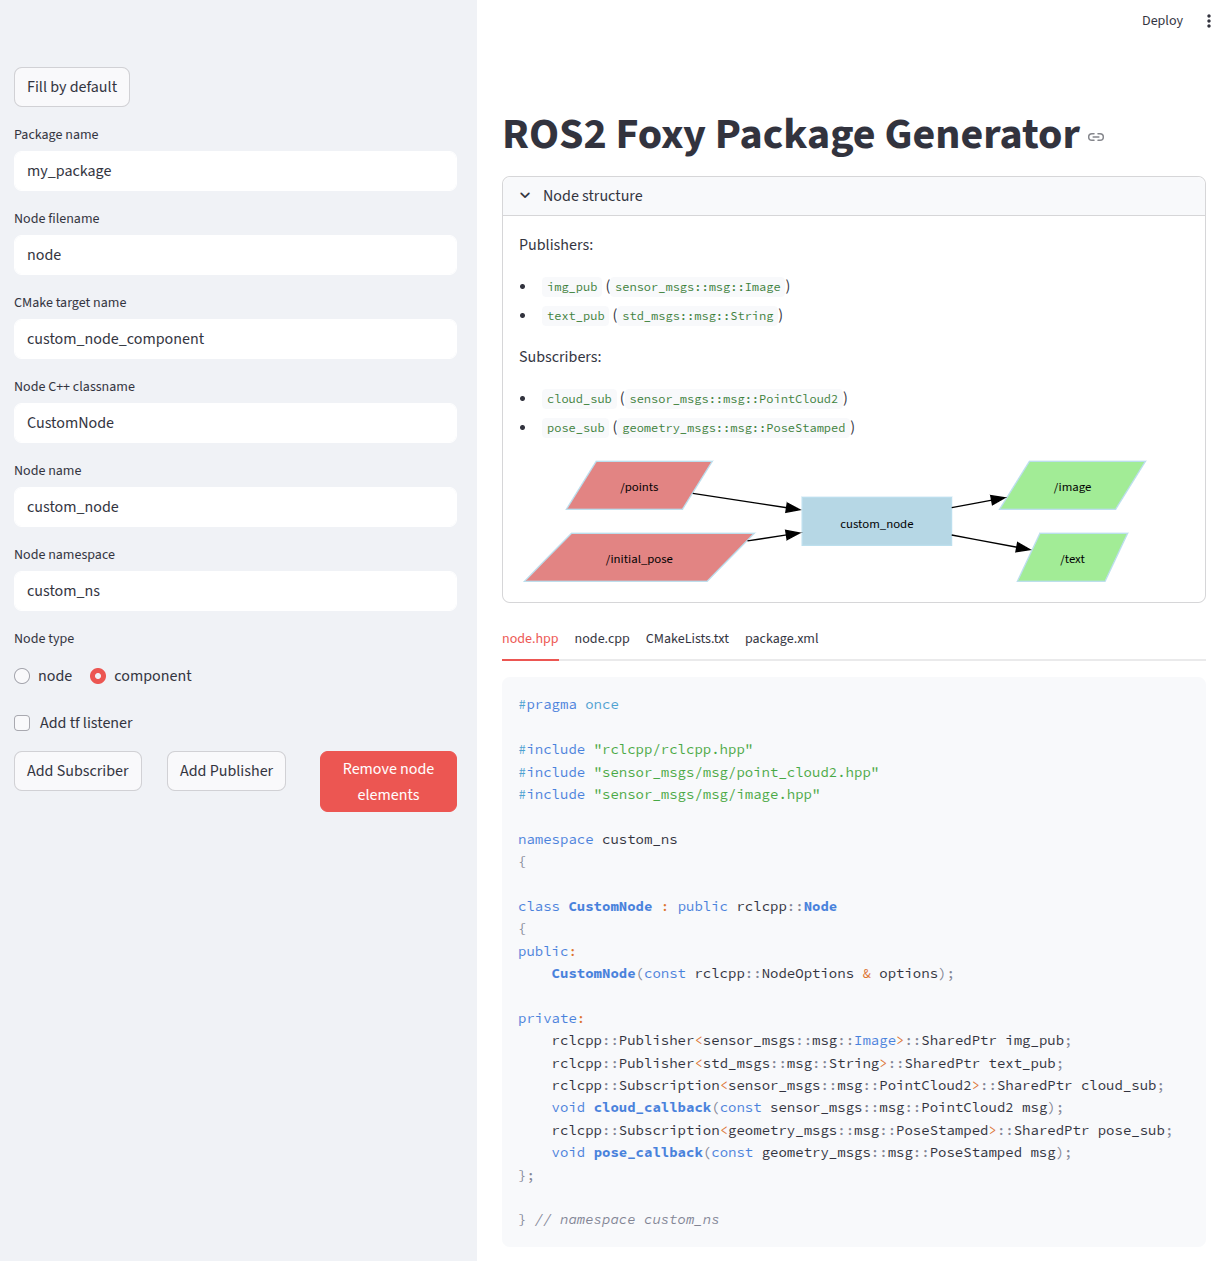
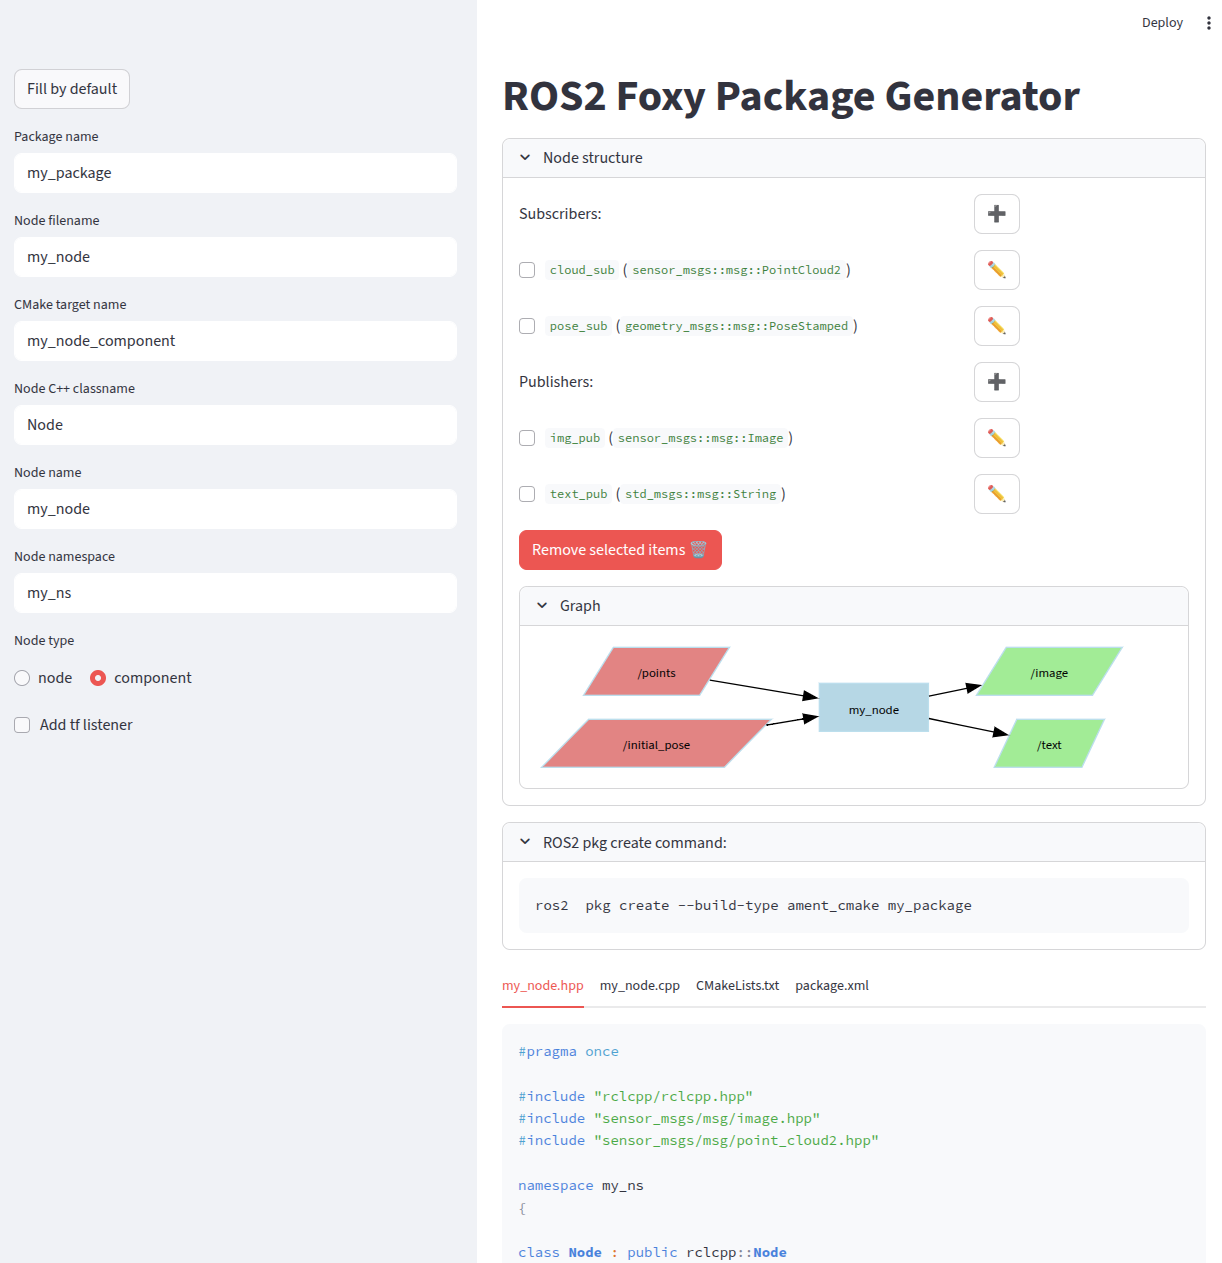
feat: Add ability to edit subs and pubs

diff --git a/ros2_node_generator.py b/ros2_node_generator.py
@@ -107,19 +107,30 @@ def add_msg_include(msg_type: str):
     st.session_state["node_info"]["includes"].add(msg_include)
     st.session_state["node_info"]["include_pkgs"].add(msg_pkg)
 
-def add_qos():
+def refresh_includes():
+    st.session_state["node_info"]['include_pkgs'] = set()
+    st.session_state["node_info"]['includes'] = set()       
+    for p in st.session_state["node_info"]["publishers"]:
+        add_msg_include(p["msg_type"])
+    for s in st.session_state["node_info"]["subscribers"]:
+        add_msg_include(s["msg_type"])
+
+def add_qos(prior_qos = {}):
     default_qos = {"history": "Keep last", "queue_size": None, "reliability": "Reliable", "durability": "Volatile"}
     qos = {}
-    st.text("QoS will be here")
-    qos["history"] = st.radio("History", ["Keep last", "Keep all"], horizontal=True)
+    history_opts = ["Keep last", "Keep all"]
+    qos["history"] = st.radio("History", history_opts, index= 0 if prior_qos == {} or "history" not in prior_qos.keys() else [i for i, h in enumerate(history_opts) if h == prior_qos["history"]][0], horizontal=True)
     qos["is_keep_all"] = qos["history"] == "Keep all"
     qos["queue_size"] = 1
     if not qos["is_keep_all"]:
-        qos["queue_size"] = st.number_input("Queue size", min_value=1, step=1)
-    qos["reliability"] = st.radio("Reliability", ["Reliable", "Best effort"], horizontal=True)
+        qos["queue_size"] = st.number_input("Queue size", min_value=1, value= 1 if prior_qos == {} or "queue_size" not in prior_qos.keys() else prior_qos["queue_size"], step=1)
+    
+    reliability_opts = ["Reliable", "Best effort"]
+    qos["reliability"] = st.radio("Reliability", reliability_opts, index= 0 if prior_qos == {} or "reliability" not in prior_qos.keys() else [i for i, r in enumerate(reliability_opts) if r == prior_qos["reliability"]][0], horizontal=True)
     qos["is_best_effort"] = qos["reliability"] == "Best effort"
     
-    qos["durability"] = st.radio("Durability", ["Volatile", "Transient local"], horizontal=True)
+    durability_opts = ["Volatile", "Transient local"]
+    qos["durability"] = st.radio("Durability", durability_opts, index= 0 if prior_qos == {} or "durability" not in prior_qos.keys() else [i for i, d in enumerate(durability_opts) if d == prior_qos["durability"]][0], horizontal=True)
     qos["is_transient_local"] = qos["durability"] == "Transient local"
     
     def is_default_qos(custom_qos: dict, qos_default: dict):
@@ -131,19 +142,19 @@ def add_qos():
     qos["is_default"] = is_default_qos(qos, default_qos)
     return qos
 
-def get_pub_sub_info():
+def get_pub_sub_info(prior_info={}):
     info = {}
     tags = st_tags(
         label='Message type',
         text='Press Enter to add',
-        value=[],
+        value=[] if prior_info == {} or 'msg_type' not in prior_info.keys() else [prior_info["msg_type"]],
         suggestions=st.session_state["msg_autocomplete"],
         maxtags=1,
         key="msgs_tags"
     )
     info["msg_type"] = None if len(tags) == 0 else tags[0]
     # TODO: check if variable's name is free
-    info["var_name"] = st.text_input("Variable name", placeholder="cloud_sub")
+    info["var_name"] = st.text_input("Variable name", placeholder="cloud_sub", value= "" if prior_info == {} or 'var_name' not in prior_info.keys() else prior_info["var_name"])
     name_free = True
     for p in st.session_state["node_info"]["publishers"]:
         if p["var_name"] == info["var_name"]:
@@ -154,10 +165,10 @@ def get_pub_sub_info():
             if s["var_name"] == info["var_name"]:
                 name_free = False
                 break
-    if not name_free:
+    if not name_free and 'var_name' not in prior_info.keys():
         st.error(f'Name {info["var_name"]} is already used for another variable')
             
-    info["topic"] = st.text_input("Topic name", placeholder="/points")
+    info["topic"] = st.text_input("Topic name", placeholder="/points", value="" if prior_info == {} or 'topic' not in prior_info.keys() else prior_info["topic"])
     return info
 
 @st.dialog("Add Subscriber")
@@ -189,36 +200,41 @@ def add_publisher():
         add_msg_include(pub_info["msg_type"])
         st.rerun()
 
-@st.dialog("Remove node elements")
-def remove_node_elements():
-    # Generate checkboxes
-    checkboxes = {'sub': [], 'pub': []}
-    if len(st.session_state["node_info"]["subscribers"]) > 0:
-        st.text("Subscribers:")
-    for sub in st.session_state["node_info"]["subscribers"]:
-        checkboxes['sub'].append(st.checkbox(f'`{sub["var_name"]}` (`{sub["msg_type"]}`)'))
-    
-    if len(st.session_state["node_info"]["publishers"]) > 0:
-        st.text("Publishers:")
-    for pub in st.session_state["node_info"]["publishers"]:
-        checkboxes['pub'].append(st.checkbox(f'`{pub["var_name"]}` (`{pub["msg_type"]}`)'))
+@st.dialog("Edit Publisher")
+def edit_publisher(pub_var_name):
+    index = [i for i, p in enumerate(st.session_state["node_info"]['publishers']) if p["var_name"] == pub_var_name][0]
+    editing_pub = st.session_state["node_info"]['publishers'][index]
+    pub_info = get_pub_sub_info(editing_pub)
+    with st.expander('QoS settings'):
+        pub_info["qos"] = add_qos(editing_pub["qos"])
+    if st.button("Apply"):
+        st.session_state["node_info"]['publishers'][index] = pub_info
+        refresh_includes()
+        add_msg_include(pub_info["msg_type"])
+        st.rerun()
 
-    # Remove selected items
-    if st.button("Remove selected items"):
-        st.session_state["node_info"]["publishers"] = [p for i, p in enumerate(st.session_state["node_info"]["publishers"], 0) if checkboxes['pub'][i] == False]
-        st.session_state["node_info"]["subscribers"] = [s for i, s in enumerate(st.session_state["node_info"]["subscribers"], 0) if checkboxes['sub'][i] == False]
-        # TODO: Remove includes more safely
-        st.session_state["node_info"]['include_pkgs'] = set()
-        st.session_state["node_info"]['includes'] = set()
-        
-        for p in st.session_state["node_info"]["publishers"]:
-            add_msg_include(p["msg_type"])
-        for s in st.session_state["node_info"]["subscribers"]:
-            add_msg_include(s["msg_type"])
+@st.dialog("Edit Subscriber")
+def edit_subscriber(sub_var_name):
+    index = [i for i, p in enumerate(st.session_state["node_info"]['subscribers']) if p["var_name"] == sub_var_name][0]
+    editing_sub = st.session_state["node_info"]['subscribers'][index]
+    sub_info = get_pub_sub_info(editing_sub)
+    
+    sub_info["callback"] = st.text_input("Callback function name", placeholder="cloud_callback", value= "" if editing_sub == {} or 'callback' not in editing_sub.keys() else editing_sub["callback"])
+    cb_types = {"Object": "obj", "UniquePtr": "uptr", "SharedPtr": "sptr", "ConstSharedPtr": "csptr"}
+    callback_arg_type = st.radio("Callback argument type", cb_types.keys(), index=2 if editing_sub == {} or 'callback_arg_type' not in editing_sub.keys() else [i for i, k in enumerate(cb_types.keys()) if cb_types[k] == editing_sub["callback_arg_type"]][0], horizontal=True)
+    sub_info["callback_arg_type"] = cb_types[callback_arg_type]
+    type_suffix = "" if callback_arg_type == "Object" else f"::{callback_arg_type}"
+    st.code(f'void {sub_info["callback"]}(const {sub_info["msg_type"]}{type_suffix} msg);', language="cpp")
+    with st.expander('QoS settings'):
+        sub_info["qos"] = add_qos(editing_sub["qos"])
+    
+    if st.button("Apply"):
+        st.session_state["node_info"]['subscribers'][index] = sub_info
+        refresh_includes()
+        add_msg_include(sub_info["msg_type"])
         st.rerun()
 
 with st.sidebar:
-
     # TODO: Remove button later
     if st.button("Fill by default"):
         st.session_state["node_info"] = {
@@ -255,17 +271,6 @@ with st.sidebar:
     st.session_state["node_info"]["is_component"] = node_type == "component"
     st.session_state["node_info"]["tf_listener"] = st.checkbox("Add tf listener", False)
 
-    col1, col2, col3 = st.columns(3)
-    with col1:
-        if st.button("Add Subscriber"):
-            add_subscriber()
-    with col2:
-        if st.button("Add Publisher"):
-            add_publisher()
-    with col3:
-        if st.button("Remove node elements", type="primary"):
-            remove_node_elements()
-
 def draw_node():
     dot = Digraph(comment='ROS2 Node', format='svg')
     dot.attr(rankdir='LR')  # Left to right
@@ -292,19 +297,40 @@ def draw_node():
 
     return dot
 
-# Visualize node's structure
-with st.expander("Node structure"):
-    node_struct_str = 'Subscribers:'
-    for sub in st.session_state["node_info"]["subscribers"]:
-        node_struct_str += f'\n- `{sub["var_name"]}` (`{sub["msg_type"]}`)'
+with st.expander("Node structure", expanded=True):
+    def text_with_button(text, button_icon="➕", help=None, on_click=None, btn_key=None):
+        text_col, btn_col = st.columns([2, 1], vertical_alignment='center')
+        text_col.write(text)
+        return btn_col.button(button_icon, help=help, on_click=on_click, key=btn_key)
     
-    node_struct_str += '\n\nPublishers:'
+    def checkboxes_with_button(text, button_icon="➕", help=None, on_click=None, btn_key=None):
+        cb_col, btn_col = st.columns([2, 1], vertical_alignment='center')
+        btn_col.button(button_icon, help=help, on_click=on_click, key=btn_key)
+        return cb_col.checkbox(text)
+     
+    checkboxes = {'sub': [], 'pub': []}
+        
+    text_with_button("Subscribers:", "➕", help="Add subscriber", on_click=lambda: add_subscriber())
+    for sub in st.session_state["node_info"]["subscribers"]:
+        var_name = sub["var_name"]
+        checkboxes['sub'].append(checkboxes_with_button(f'`{sub["var_name"]}` (`{sub["msg_type"]}`)', "✏", help="Edit", btn_key=sub["var_name"], on_click=lambda var=var_name: edit_subscriber(var)))
+    
+    text_with_button("Publishers:", "➕", help="Add publisher", on_click=lambda: add_publisher())
     for pub in st.session_state["node_info"]["publishers"]:
-        node_struct_str += f'\n- `{pub["var_name"]}` (`{pub["msg_type"]}`)'
-    st.markdown(node_struct_str)
+        var_name = pub["var_name"]
+        checkboxes['pub'].append(checkboxes_with_button(f'`{pub["var_name"]}` (`{pub["msg_type"]}`)', "✏", help="Edit", btn_key=pub["var_name"], on_click=lambda var=var_name: edit_publisher(var)))
+    
+    # Remove selected items
+    if st.button("Remove selected items 🗑", type="primary"):
+        st.session_state["node_info"]["publishers"] = [p for i, p in enumerate(st.session_state["node_info"]["publishers"], 0) if checkboxes['pub'][i] == False]
+        st.session_state["node_info"]["subscribers"] = [s for i, s in enumerate(st.session_state["node_info"]["subscribers"], 0) if checkboxes['sub'][i] == False]
+        # TODO: Remove includes more safely
+        refresh_includes()
+        st.rerun()
     
     # Visualize node's graph
-    st.graphviz_chart(draw_node())
+    with st.expander("Graph", expanded=True):
+        st.graphviz_chart(draw_node())
 
 # Write terminal command for package generation
 with st.expander("ROS2 pkg create command:", expanded=True):
@@ -325,3 +351,6 @@ for fname, fcontent in files.items():
         else:
             st.code(fcontent)
     index += 1
+
+# For debug
+# st.write(st.session_state["node_info"])

diff --git a/README.md b/README.md
@@ -30,8 +30,8 @@ streamlit run ros2_node_generator.py
 ```
 
 ### TODO
+- [x] Add the ability to edit publishers and subscribers
 - [ ] Update README
-- [ ] Add the ability to edit publishers and subscribers
 - [ ] Add support for:
   - [ ] ros2-params
   - [ ] ros2-timers
